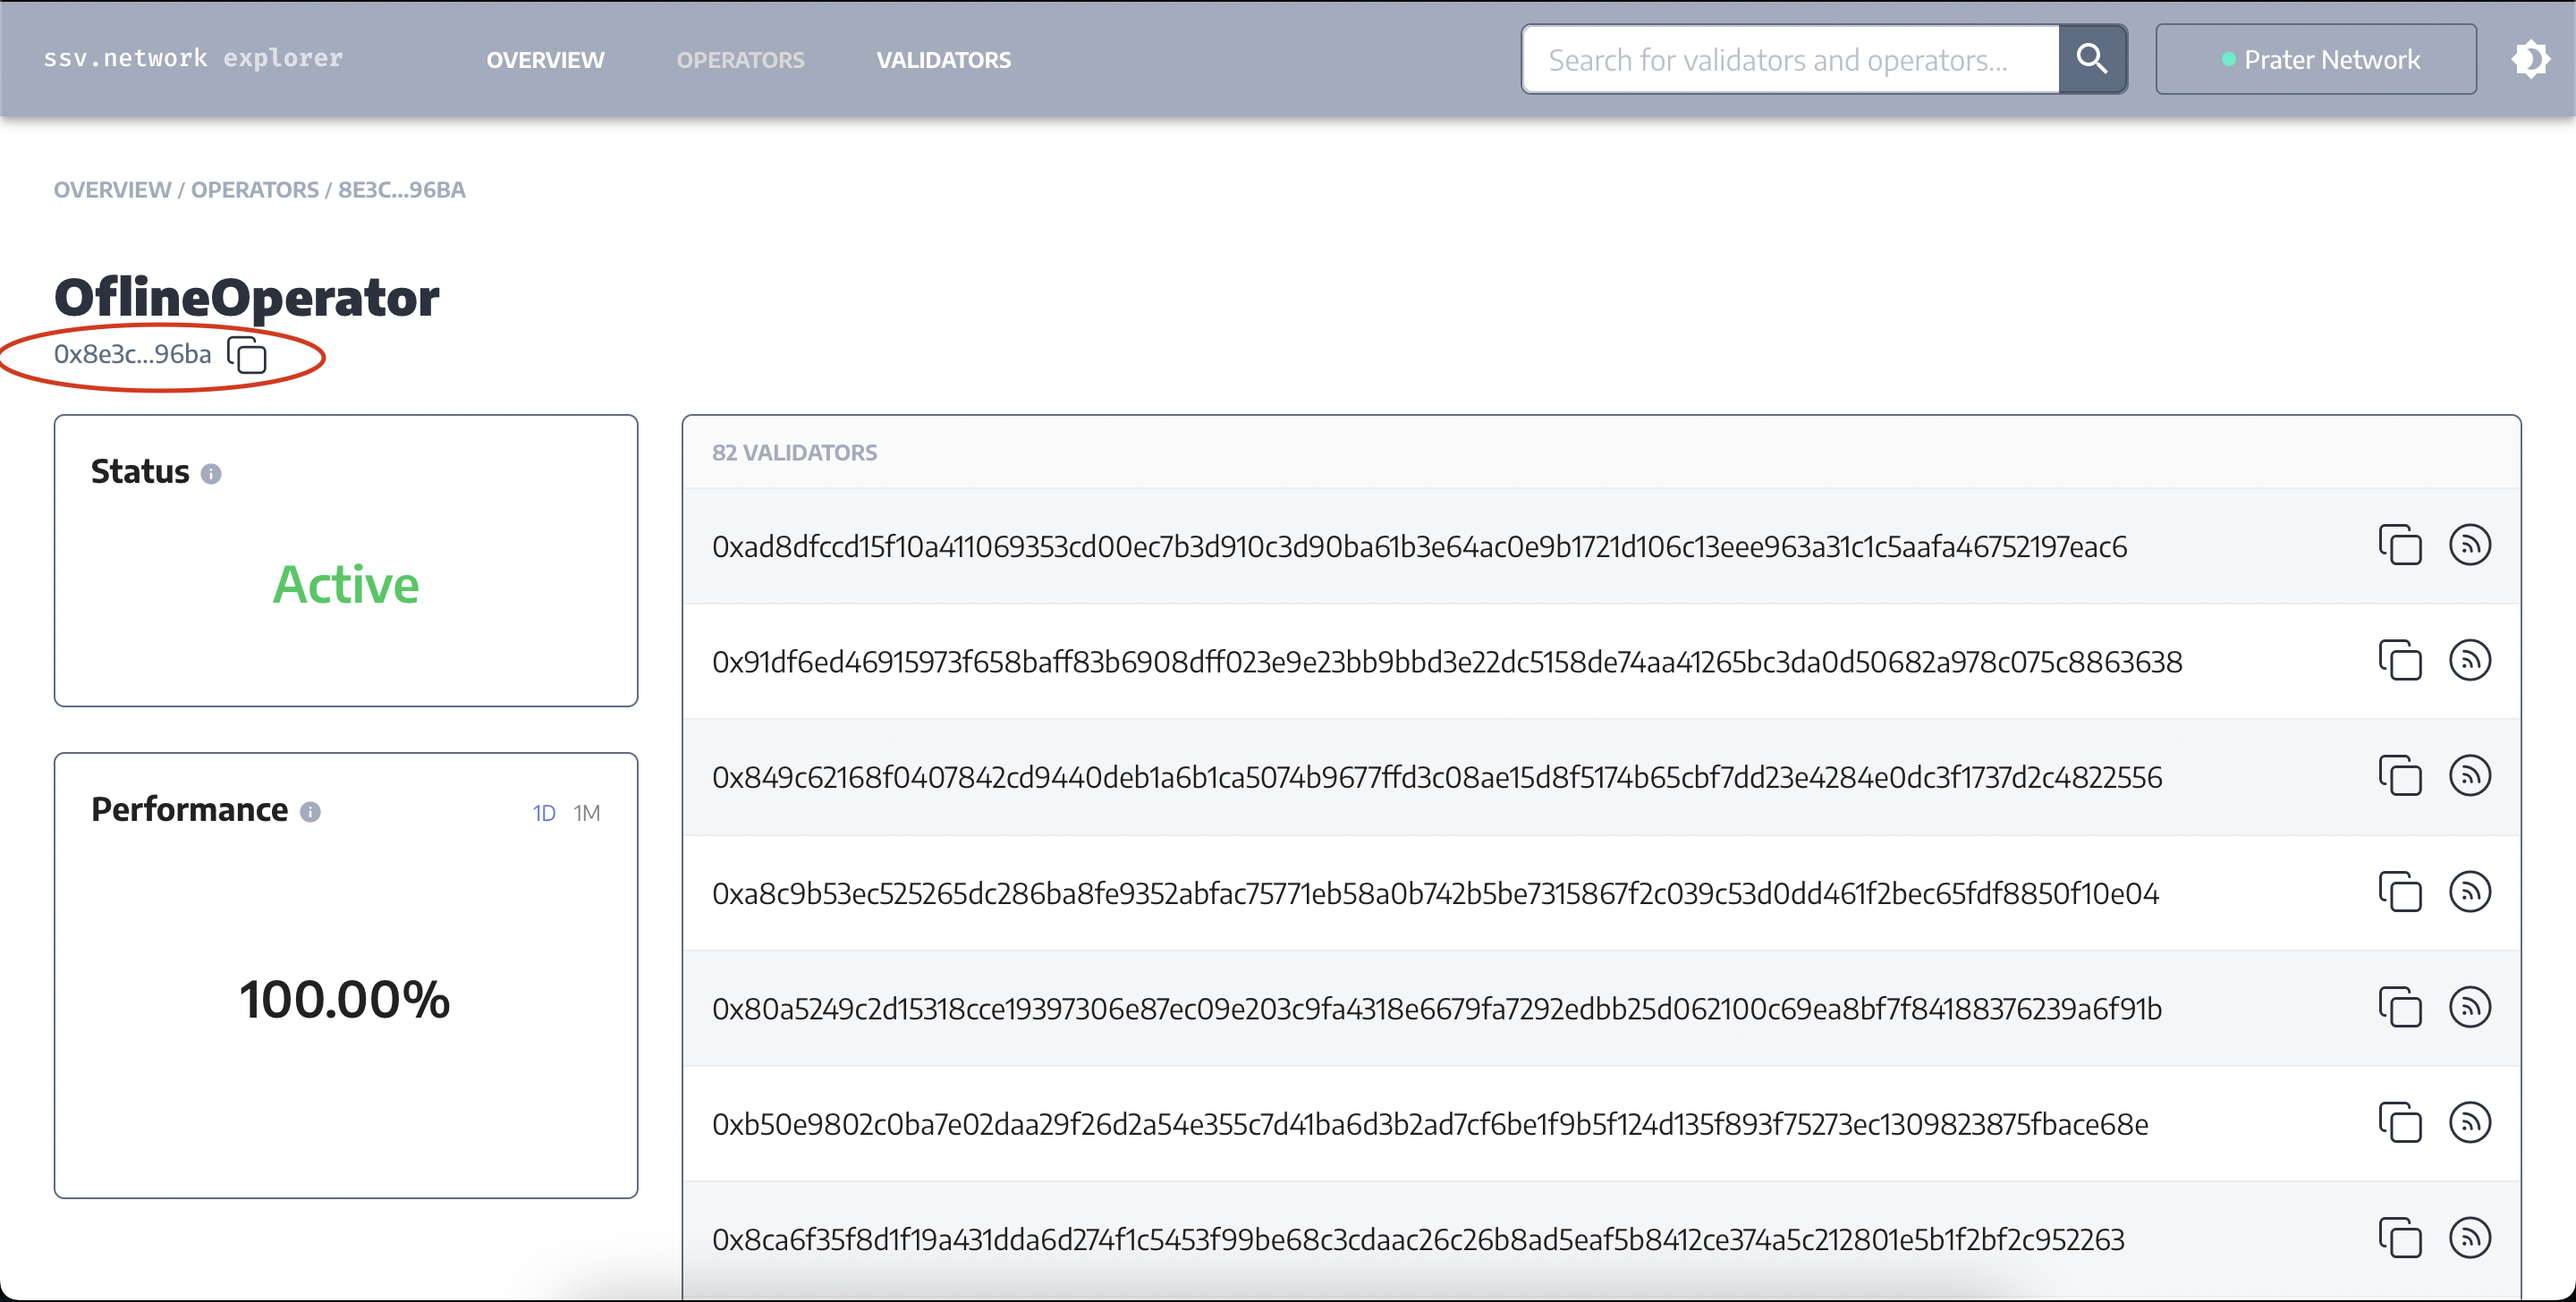
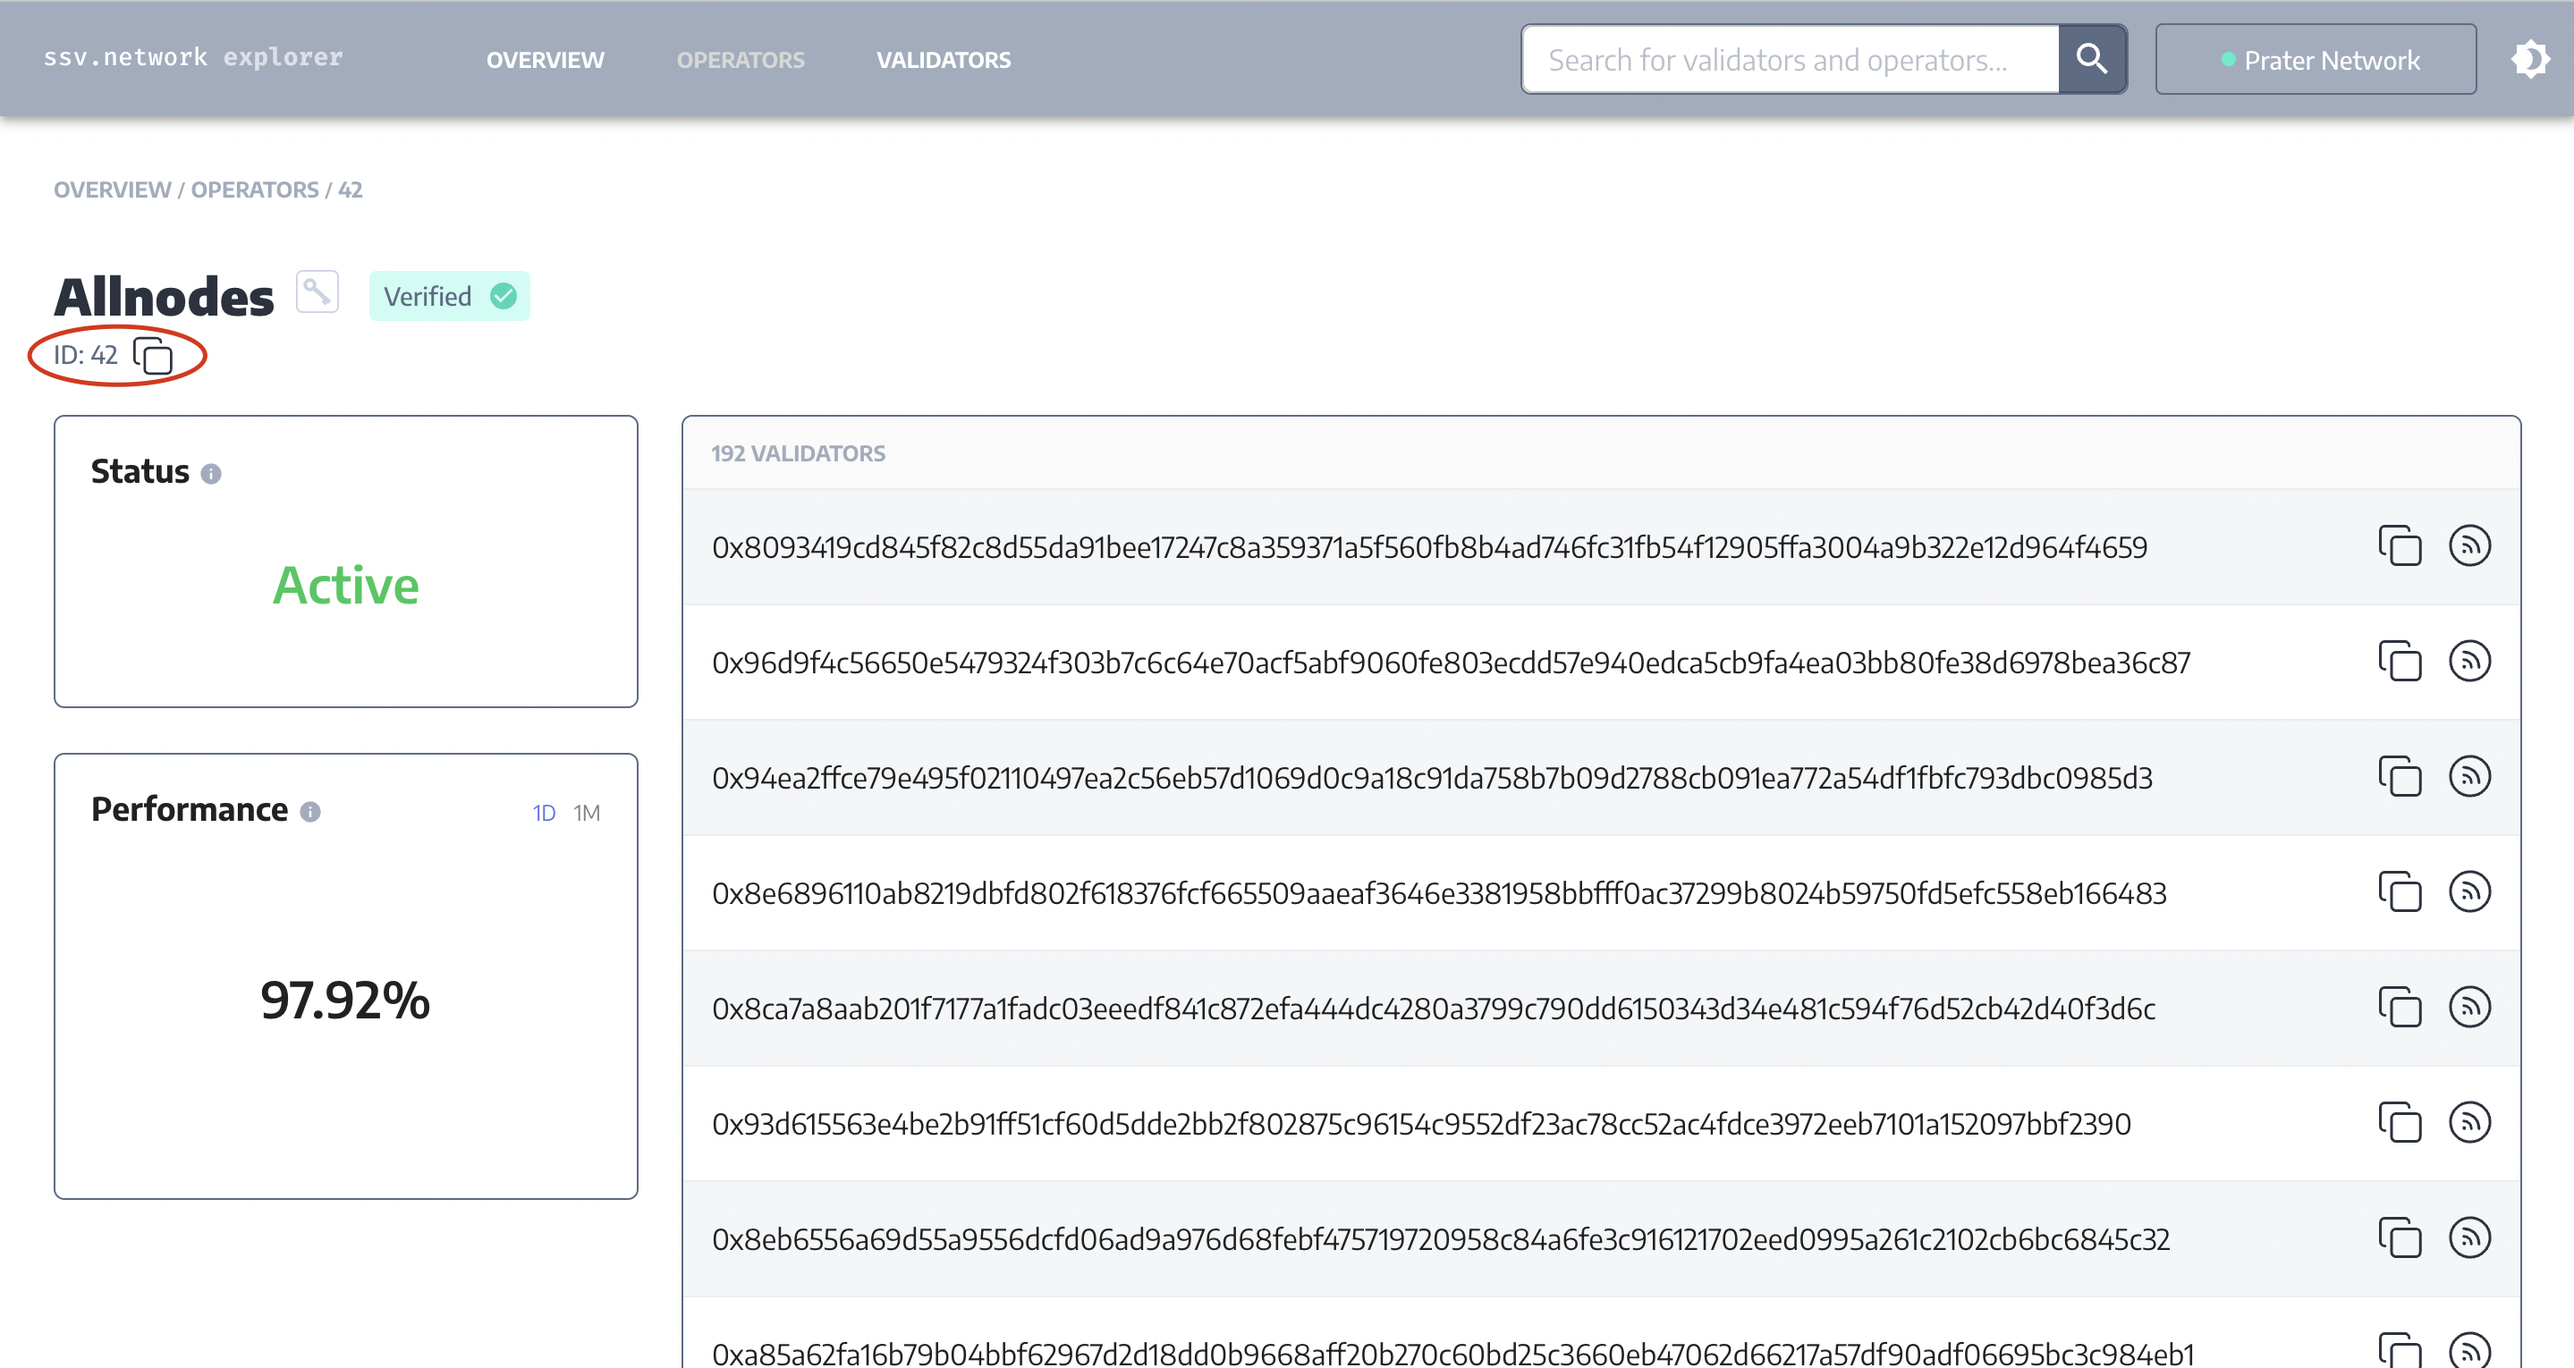
update bot to the new Network

diff --git a/bot/commands.js b/bot/commands.js
@@ -22,28 +22,20 @@ export const add = (curentChatId, text) => {
     if (text === '/add') { 
         return bot.sendMessage(
             curentChatId,
-            message.writeAddress, 
-            {parse_mode:'HTML', reply_markup: menu.helpAddress}
+            message.writeId, 
+            {parse_mode:'HTML', reply_markup: menu.helpId}
         )
     }
 
     if (text.startsWith('/add ')){
-        let addressFromMessage = text.replace('/add ','')
+        let idFromMessage = text.replace('/add ','')
 
-        if(addressFromMessage.length !== 64) { 
-            return bot.sendMessage(
-                curentChatId, 
-                message.wrongAddress, 
-                {parse_mode:'HTML'}
-            )
-        }
-
-        sendRequest(process.env.SSV_URL+addressFromMessage).then(res => {
-            ssvStatus.findOne({address: addressFromMessage}).then(response => {
+        sendRequest(process.env.SSV_URL+idFromMessage).then(res => {
+            ssvStatus.findOne({id: idFromMessage}).then(response => {
                 if (response === null) {
                     ssvStatus.create({
                         chatId:  curentChatId, 
-                        address: addressFromMessage, 
+                        id:      idFromMessage, 
                         name:    res['name'] }, 
                         (err, res) => { if(err) throw err }
                     )
@@ -65,7 +57,7 @@ export const add = (curentChatId, text) => {
                 let newChaitIdArray = response.chatId
                 newChaitIdArray.push(curentChatId)
                 ssvStatus.findOneAndUpdate(
-                    {address: addressFromMessage},
+                    {id: idFromMessage},
                     {chatId:  newChaitIdArray }, 
                     (err, res) => { if(err) throw err }
                 )
@@ -75,18 +67,19 @@ export const add = (curentChatId, text) => {
                     {parse_mode:'HTML', reply_markup: menu.main}
                 )
             })
-        }).catch(err => { return bot.sendMessage(curentChatId, message.wrongAddress), {parse_mode:'HTML'} })
+        }).catch(err => { return bot.sendMessage(curentChatId, message.wrongId), {parse_mode:'HTML'} })
     }
 }
 
 export const nodes = (curentChatId) => {
     ssvStatus.find({chatId: curentChatId}, (err, nodes) => {
+        console.log(nodes)
         var str = ``
         for(let i = 0; i < nodes.length; i++){
             if(nodes[i]['status'] === 'Active') {
-                str += `<b>${nodes[i]['name']}:</b> <code>${nodes[i]['address']}</code>   <b>${nodes[i]['status']}</b>\u2705\n\n`
+                str += `<b>${nodes[i]['name']} node is ${nodes[i]['status']}</b>\u2705\n\n`
             } else { 
-                str += `<b>${nodes[i]['name']}:</b> <code>${nodes[i]['address']}</code>   <b>${nodes[i]['status']}</b>\u274c\n\n` 
+                str += `<b>${nodes[i]['name']} node is ${nodes[i]['status']}</b>\u274c\n\n` 
             }
         }
         if(str === ``) {
@@ -108,6 +101,13 @@ export const rm = async (curentChatId, text) => {
     if (text === '/rm') {
         let nodes = []
         let dbNodes = await ssvStatus.find({chatId: curentChatId})
+        if (dbNodes.length === 0) {
+            return bot.sendMessage(
+                curentChatId, 
+                `You dont have any added node`, 
+                {parse_mode:'HTML', reply_markup: menu.main}
+            )
+        }
         for (let i = 0; i < dbNodes.length; i++){
             let text = `🗑remove ${dbNodes[i].name}`
             let rem = `/rm !${dbNodes[i].name}`
@@ -125,7 +125,7 @@ export const rm = async (curentChatId, text) => {
     if(text.startsWith('/rm !')){
         let nameOfNode = text.replace('/rm !','')
         let node = await ssvStatus.find({name: nameOfNode})
-        if (node[0].address === undefined) { return }
+        if (node[0].id === undefined) { return }
 
         let newChaitIdArray = node[0].chatId
         if (newChaitIdArray.indexOf(curentChatId) === -1) { return }

diff --git a/bot.js b/bot.js
@@ -24,9 +24,8 @@ export const start = () => {
         if (text === '/start') {
             return botCommands.start(curentChatId, msg.chat.username)
         }
-
-        if (text.length === 64) {
-            return botCommands.add(curentChatId, '/add ' + text )
+        if (text.startsWith('/add')) {
+            return botCommands.add(curentChatId, text)
         }
 
     })
@@ -48,26 +47,47 @@ export const start = () => {
             return bot.sendPhoto(
                 msg.message.chat.id, 
                 './pictures/Address.png',
-                {caption: 'Firstly you need open: https://explorer.ssv.network/\nThen paste name of operator into search bar\nAnd After that copy address and paste it here'}
+                {caption: 'Firstly you need open: https://explorer.ssv.network/\nThen paste name of operator into search bar\nAnd After that copy id and paste it here after /add'}
             )
         }
     })
 }
 
-export function alertNode(chatIds, status, address, name){
+export function alertNode(chatIds, status, name){
     chatIds.forEach(id => {
         if (status === 'Active') {
             bot.sendMessage(
                 id, 
-                `<b>Status of ${name} node: </b> <code>${address}</code> <b>    is ${status}</b>\u2705`, 
+                `<b>Status of ${name} node is ${status}</b>\u2705`, 
                 {parse_mode:'HTML'}
             )
         }
         else
             bot.sendMessage(
                 id, 
-                `<b>Status of ${name} node: </b> <code>${address}</code> <b>    is ${status}</b>\u274c`, 
+                `<b>Status of ${name} node: is ${status}</b>\u274c`, 
                 {parse_mode:'HTML'}
             )
+    })
+}
+
+export function alertUpdate() {
+    let ids = [
+        '703743978',  '417194626',  '416646558',
+        '603122970',  '700688372',  '5201951089',
+        '1849448384', '1605819557', '5061122895',
+        '5352629829', '402363340',  '5297217755',
+        '1384145708', '409831755',  '1913943',
+        '5424190480', '540690418',  '418543388',
+        '6722095',    '309573569',  '2093898765',
+        '5038085326', '1879436489', '5062397121',
+        '509326639',  '374242025',  '270156696'
+    ]
+    ids.forEach(id => {
+        bot.sendMessage(
+            id,
+            `<b>Bot was updated to the Shifu Testnet\n\n You need to add your node again</b>\u2705`, 
+            {parse_mode:'HTML'}
+        )
     })
 }

diff --git a/dbCommands/refreshName.js b/dbCommands/refreshName.js
@@ -12,7 +12,7 @@ export const refreshName = async () => {
     }
 
     db.forEach(async node => {
-        let currentURL = process.env.SSV_URL + node['address']
+        let currentURL = process.env.SSV_URL + node['id']
         let res
         try {
             res = await fetch(currentURL)
@@ -28,7 +28,26 @@ export const refreshName = async () => {
         }
 
         if (node['name'] === "SSV node") { 
-            ssvStatus.updateOne({address: node['address'] }, {name: res['name']}, (err, response) => { if(err) throw err })
+            ssvStatus.updateOne({id: node['id'] }, {name: res['name']}, (err, response) => { if(err) throw err })
         }
     })
+}
+
+export const allChatIds = async () => {
+    let db
+    try {
+        db = await ssvStatus.find()
+    } catch(err) {
+        console.error(err)
+        err.msg = 'Error while reading db'
+        throw err
+    }
+    let ids = []
+    db.forEach(async node => {
+        node.chatId.forEach(id => {
+            if (ids.indexOf(id) === -1)
+            ids.push(id)
+        })
+    })
+    console.log(ids)
 }

diff --git a/check.js b/check.js
@@ -29,7 +29,7 @@ export async function checkAllNodes() {
 
     
     db.forEach(async node => {
-        let currentURL = process.env.SSV_URL + node['address']
+        let currentURL = process.env.SSV_URL + node['id']
         let res
         try{
             res = await fetch(currentURL)
@@ -44,15 +44,15 @@ export async function checkAllNodes() {
             return err
         }
 
-        console.log(`Status of ${node['address']} node is ${res['status']}`)
+        console.log(`Status of ${node['id']} node is ${res['status']}`)
     
         if (node['status'] !== res['status']) { 
             ssvStatus.updateOne(
-                {address: node['address'] }, 
+                {id: node['id'] }, 
                 {status: res['status']}, 
                 (err, response) => { if(err) throw err }
             )
-            alertNode(node['chatId'], res['status'], node['address'], node['name'])
+            alertNode(node['chatId'], res['status'], node['name'])
         }
     })
 }

diff --git a/app.js b/app.js
@@ -1,8 +1,7 @@
 import { checkAllNodes } from './check.js'
 import mongoose from 'mongoose'
 import dot from 'dotenv'
-import { start } from './bot.js'
-import { refreshName } from './dbCommands/refreshName.js'
+import { alertUpdate, start } from './bot.js'
 
 dot.config()
 var time = Date.now()
@@ -16,9 +15,9 @@ await mongoose.connect(process.env.DB_URL, {
 console.log(`Time to connect with DB: ${(Date.now() - time)/1000} sec.`)
 
 start()
-
+alertUpdate()
 try{
-    setInterval(checkAllNodes, 30000)
+    setInterval(checkAllNodes, 4000)
 } catch(err){
     console.error(err.msg)
 }

diff --git a/models/ssvStatus.js b/models/ssvStatus.js
@@ -1,11 +1,11 @@
 import mongoose from 'mongoose'
 const { Schema } = mongoose
 
-const ssvStatussSchema = new Schema({
-    address: { type: String, required: true },
+const ssvStatusSchema = new Schema({
+    id: { type: String, required: true },
     chatId: { type: [String], required: true },
     status: { type: String, default: "Inactive" },
     name: { type: String, default: "SSV node" }
 })
 
-export const ssvStatus = mongoose.model('ssvStatuss', ssvStatussSchema)
+export const ssvStatus = mongoose.model('ssvStatus_V2', ssvStatusSchema)

diff --git a/bot/messages.js b/bot/messages.js
@@ -1,5 +1,5 @@
-export const wrongAddress = `You are write a wrong address`
-export const writeAddress = `Please write address`
+export const wrongId = `You are write a wrong id`
+export const writeId = `Please write id after <code>/add</code> \n\nExmple: <code>/add 1</code>`
 export const nodeAdded = `<b>Node was successfully added✅</b>`
 export const alreadyAdded = `Node was already added`
 export const noNodes = `You dont have any added node`

diff --git a/bot/bottoms.js b/bot/bottoms.js
@@ -6,9 +6,9 @@ export const menu = {
             [{text: '🗑Remove node', callback_data: '/rm'}]
         ]
     }),
-    helpAddress: JSON.stringify({
+    helpId: JSON.stringify({
         inline_keyboard: [
-            [{text: '🆘How to find address', callback_data: '/HowToFindAddress'}]
+            [{text: '🆘How to find id', callback_data: '/HowToFindAddress'}]
         ]
     })
 }
